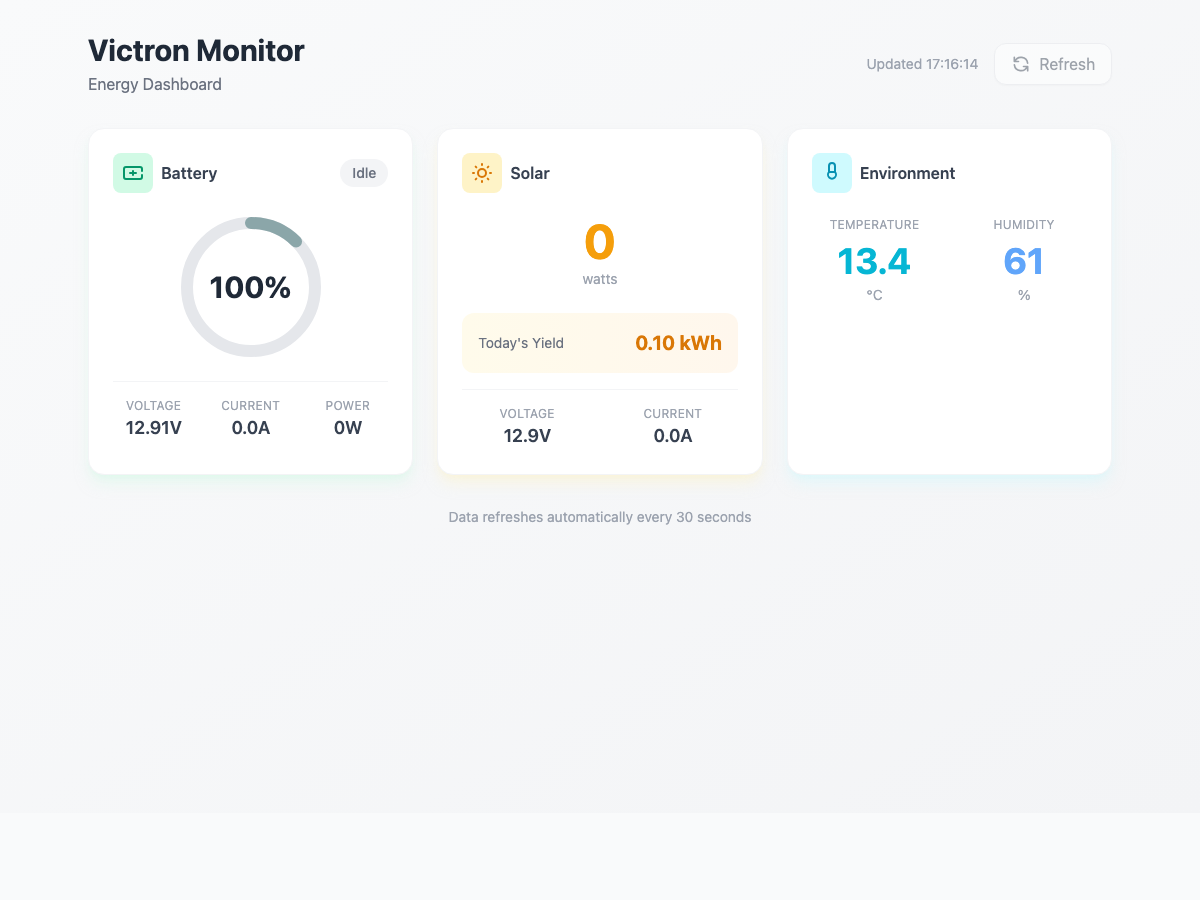
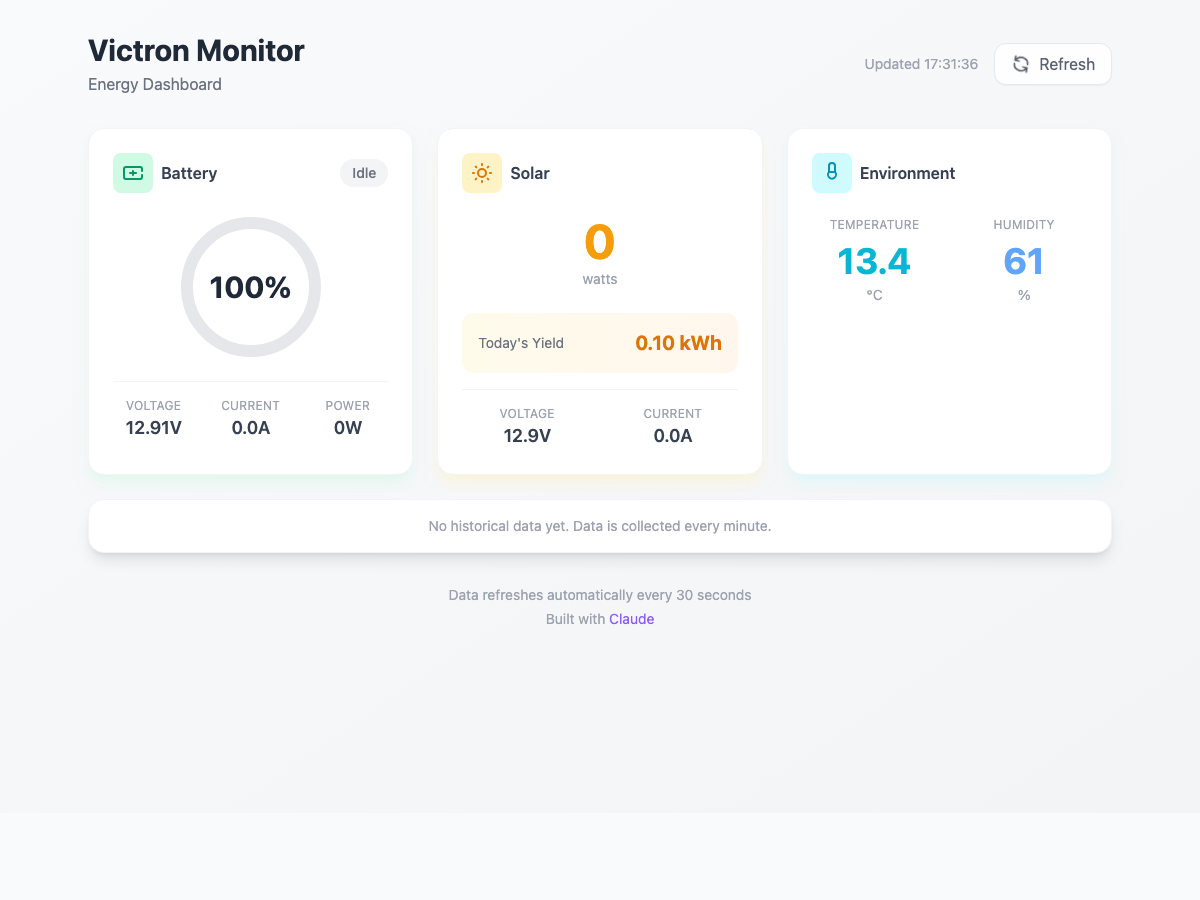
Add time travel feature to scroll through historical data
- Time slider to scrub through 24 hours of history
- Dashboard updates in real-time as you scroll
- Live mode button to return to current data
- Updated screenshot and README

diff --git a/frontend/src/App.jsx b/frontend/src/App.jsx
@@ -1,4 +1,4 @@
-import { useState, useEffect } from 'react'
+import { useState, useEffect, useMemo } from 'react'
 
 const API_BASE = import.meta.env.PROD ? '' : 'http://localhost:8000'
 
@@ -61,7 +61,7 @@ function CircularGauge({ value, max = 100, size = 140, strokeWidth = 12, color, 
           strokeDasharray={circumference}
           strokeDashoffset={offset}
           strokeLinecap="round"
-          className="transition-all duration-500 ease-out"
+          className="transition-all duration-300 ease-out"
         />
       </svg>
       <div className="absolute inset-0 flex items-center justify-center">
@@ -98,11 +98,24 @@ const RefreshIcon = ({ spinning }) => (
   </svg>
 )
 
-function BatteryCard({ battery }) {
-  const voltage = battery?.voltage ?? null
-  const current = battery?.current ?? 0
-  const power = battery?.power ?? 0
-  const state = battery?.state ?? 'unknown'
+const PlayIcon = () => (
+  <svg className="w-5 h-5" fill="currentColor" viewBox="0 0 24 24">
+    <path d="M8 5v14l11-7z" />
+  </svg>
+)
+
+const TimeTravelIcon = () => (
+  <svg className="w-6 h-6" fill="none" viewBox="0 0 24 24" stroke="currentColor" strokeWidth={2}>
+    <path strokeLinecap="round" strokeLinejoin="round" d="M12 8v4l3 3m6-3a9 9 0 11-18 0 9 9 0 0118 0z" />
+    <path strokeLinecap="round" strokeLinejoin="round" d="M3 12h2M4 9l1.5 1.5M4 15l1.5-1.5" />
+  </svg>
+)
+
+function BatteryCard({ data }) {
+  const voltage = data?.battery_voltage ?? null
+  const current = data?.battery_current ?? 0
+  const power = data?.battery_power ?? 0
+  const state = data?.battery_state ?? 'unknown'
   const soc = voltageToSOC(voltage)
 
   const getSOCColor = (soc) => {
@@ -164,11 +177,11 @@ function BatteryCard({ battery }) {
   )
 }
 
-function SolarCard({ solar }) {
-  const power = solar?.power ?? 0
-  const voltage = solar?.voltage ?? 0
-  const current = solar?.current ?? 0
-  const yieldToday = solar?.yield_today ?? 0
+function SolarCard({ data }) {
+  const power = data?.solar_power ?? 0
+  const voltage = data?.solar_voltage ?? 0
+  const current = data?.solar_current ?? 0
+  const yieldToday = data?.solar_yield_today ?? 0
 
   return (
     <div className="bg-white rounded-2xl shadow-lg shadow-amber-100/50 p-6 border border-gray-100">
@@ -207,9 +220,9 @@ function SolarCard({ solar }) {
   )
 }
 
-function EnvironmentCard({ environment }) {
-  const temp = environment?.temperature ?? null
-  const humidity = environment?.humidity ?? null
+function EnvironmentCard({ data }) {
+  const temp = data?.temperature ?? null
+  const humidity = data?.humidity ?? null
 
   return (
     <div className="bg-white rounded-2xl shadow-lg shadow-cyan-100/50 p-6 border border-gray-100">
@@ -238,22 +251,127 @@ function EnvironmentCard({ environment }) {
   )
 }
 
+function TimeSlider({ history, selectedIndex, onIndexChange, isLive, onLiveToggle }) {
+  const readings = history?.readings ?? []
+
+  if (readings.length === 0) {
+    return (
+      <div className="bg-white rounded-2xl shadow-lg p-4 border border-gray-100">
+        <p className="text-gray-400 text-center text-sm">No historical data yet. Data is collected every minute.</p>
+      </div>
+    )
+  }
+
+  const selectedReading = readings[selectedIndex]
+  const selectedTime = selectedReading ? new Date(selectedReading.timestamp) : null
+
+  const formatTime = (date) => {
+    return date.toLocaleTimeString('en-GB', { hour: '2-digit', minute: '2-digit' })
+  }
+
+  const formatDateTime = (date) => {
+    const today = new Date()
+    const isToday = date.toDateString() === today.toDateString()
+    if (isToday) {
+      return `Today ${formatTime(date)}`
+    }
+    return date.toLocaleDateString('en-GB', { weekday: 'short', day: 'numeric', month: 'short' }) + ' ' + formatTime(date)
+  }
+
+  const oldestTime = readings.length > 0 ? new Date(readings[0].timestamp) : null
+  const newestTime = readings.length > 0 ? new Date(readings[readings.length - 1].timestamp) : null
+
+  return (
+    <div className="bg-white rounded-2xl shadow-lg p-4 border border-gray-100">
+      <div className="flex items-center justify-between gap-4">
+        {/* Left: Icon and title */}
+        <div className="flex items-center gap-3">
+          <div className="p-2 bg-violet-100 rounded-lg text-violet-600">
+            <TimeTravelIcon />
+          </div>
+          <div>
+            <div className={`text-xl font-bold ${isLive ? 'text-emerald-500' : 'text-violet-500'}`}>
+              {isLive ? 'Live' : selectedTime ? formatTime(selectedTime) : '--:--'}
+            </div>
+            <div className="text-xs text-gray-400">
+              {isLive ? 'Real-time' : selectedTime ? formatDateTime(selectedTime) : ''}
+            </div>
+          </div>
+        </div>
+
+        {/* Center: Slider */}
+        <div className="flex-1 px-4">
+          <input
+            type="range"
+            min={0}
+            max={readings.length - 1}
+            value={selectedIndex}
+            onChange={(e) => onIndexChange(parseInt(e.target.value))}
+            onMouseDown={() => { if (isLive) onLiveToggle() }}
+            onTouchStart={() => { if (isLive) onLiveToggle() }}
+            className="w-full h-2 rounded-lg appearance-none cursor-pointer"
+            style={{
+              background: isLive
+                ? '#d1fae5'
+                : `linear-gradient(to right, #8b5cf6 0%, #8b5cf6 ${(selectedIndex / (readings.length - 1)) * 100}%, #ddd6fe ${(selectedIndex / (readings.length - 1)) * 100}%, #ddd6fe 100%)`
+            }}
+          />
+          <div className="flex justify-between mt-1 text-xs text-gray-400">
+            <span>{oldestTime ? formatTime(oldestTime) : ''}</span>
+            <span className="text-gray-300">{readings.length} readings</span>
+            <span>{newestTime ? formatTime(newestTime) : ''}</span>
+          </div>
+        </div>
+
+        {/* Right: Live button */}
+        <button
+          onClick={onLiveToggle}
+          className={`flex items-center gap-2 px-4 py-2 rounded-xl font-medium transition-all ${
+            isLive
+              ? 'bg-emerald-500 text-white shadow-lg shadow-emerald-200'
+              : 'bg-gray-100 text-gray-600 hover:bg-gray-200'
+          }`}
+        >
+          <PlayIcon />
+          <span>Live</span>
+        </button>
+      </div>
+    </div>
+  )
+}
+
 function App() {
   const [current, setCurrent] = useState(null)
+  const [history, setHistory] = useState(null)
   const [lastUpdate, setLastUpdate] = useState(null)
   const [error, setError] = useState(null)
   const [refreshing, setRefreshing] = useState(false)
+  const [isLive, setIsLive] = useState(true)
+  const [selectedIndex, setSelectedIndex] = useState(0)
 
   const fetchData = async () => {
     setRefreshing(true)
     try {
-      const response = await fetch(`${API_BASE}/api/current`)
-      if (response.ok) {
-        const data = await response.json()
+      const [currentRes, historyRes] = await Promise.all([
+        fetch(`${API_BASE}/api/current`),
+        fetch(`${API_BASE}/api/history?hours=24`)
+      ])
+
+      if (currentRes.ok) {
+        const data = await currentRes.json()
         if (!data.error) {
           setCurrent(data)
           setLastUpdate(new Date())
           setError(null)
+        }
+      }
+
+      if (historyRes.ok) {
+        const data = await historyRes.json()
+        setHistory(data)
+        // If live mode, keep slider at the end
+        if (isLive && data.readings?.length > 0) {
+          setSelectedIndex(data.readings.length - 1)
         }
       }
     } catch (e) {
@@ -269,6 +387,44 @@ function App() {
     return () => clearInterval(interval)
   }, [])
 
+  // When new data arrives and we're in live mode, update selected index
+  useEffect(() => {
+    if (isLive && history?.readings?.length > 0) {
+      setSelectedIndex(history.readings.length - 1)
+    }
+  }, [history, isLive])
+
+  // Get the display data based on mode
+  const displayData = useMemo(() => {
+    if (isLive || !history?.readings?.length) {
+      // Live mode - use current data
+      return current ? {
+        battery_voltage: current.battery?.voltage,
+        battery_current: current.battery?.current,
+        battery_power: current.battery?.power,
+        battery_state: current.battery?.state,
+        solar_power: current.solar?.power,
+        solar_voltage: current.solar?.voltage,
+        solar_current: current.solar?.current,
+        solar_yield_today: current.solar?.yield_today,
+        temperature: current.environment?.temperature,
+        humidity: current.environment?.humidity,
+      } : null
+    } else {
+      // Historical mode - use selected reading
+      return history.readings[selectedIndex]
+    }
+  }, [isLive, current, history, selectedIndex])
+
+  const handleLiveToggle = () => {
+    const newIsLive = !isLive
+    setIsLive(newIsLive)
+    if (newIsLive && history?.readings?.length > 0) {
+      // Switching to live - jump to end
+      setSelectedIndex(history.readings.length - 1)
+    }
+  }
+
   return (
     <main className="min-h-screen bg-gradient-to-br from-gray-50 to-gray-100 p-4 md:p-8">
       <div className="max-w-5xl mx-auto">
@@ -279,7 +435,12 @@ function App() {
             <p className="text-gray-500 mt-1">Energy Dashboard</p>
           </div>
           <div className="flex items-center gap-4">
-            {lastUpdate && (
+            {!isLive && (
+              <span className="px-3 py-1 bg-violet-100 text-violet-600 rounded-full text-sm font-medium">
+                Viewing History
+              </span>
+            )}
+            {lastUpdate && isLive && (
               <span className="text-sm text-gray-400">
                 Updated {lastUpdate.toLocaleTimeString()}
               </span>
@@ -302,11 +463,20 @@ function App() {
         )}
 
         {/* Cards Grid */}
-        <div className="grid grid-cols-1 md:grid-cols-2 lg:grid-cols-3 gap-6">
-          <BatteryCard battery={current?.battery} />
-          <SolarCard solar={current?.solar} />
-          <EnvironmentCard environment={current?.environment} />
+        <div className="grid grid-cols-1 md:grid-cols-2 lg:grid-cols-3 gap-6 mb-6">
+          <BatteryCard data={displayData} />
+          <SolarCard data={displayData} />
+          <EnvironmentCard data={displayData} />
         </div>
+
+        {/* Time Slider */}
+        <TimeSlider
+          history={history}
+          selectedIndex={selectedIndex}
+          onIndexChange={setSelectedIndex}
+          isLive={isLive}
+          onLiveToggle={handleLiveToggle}
+        />
 
         {/* Footer */}
         <div className="mt-8 text-center text-gray-400 text-sm space-y-1">

diff --git a/backend/main.py b/backend/main.py
@@ -147,9 +147,15 @@ async def get_history(hours: int = 24, db: Session = Depends(get_db)):
             {
                 "timestamp": r.timestamp.isoformat(),
                 "battery_voltage": r.battery_voltage,
+                "battery_current": r.battery_current,
                 "battery_power": r.battery_power,
+                "battery_state": r.battery_state,
                 "solar_power": r.solar_power,
+                "solar_voltage": r.solar_voltage,
+                "solar_current": r.solar_current,
+                "solar_yield_today": r.solar_yield_today,
                 "temperature": r.temperature,
+                "humidity": r.humidity,
             }
             for r in readings
         ]

diff --git a/README.md b/README.md
@@ -9,6 +9,7 @@ A simple, self-hosted energy monitoring dashboard for Victron systems using the 
 - **Battery monitoring** - Voltage, current, power, and estimated SOC (state of charge) from voltage
 - **Solar tracking** - Real-time power output and daily yield
 - **Environment sensors** - Temperature and humidity from connected sensors (e.g., Ruuvi)
+- **Time travel** - Scroll through 24 hours of historical data and watch the dashboard update
 - **Auto-refresh** - Dashboard updates every 30 seconds
 - **Data logging** - Historical data stored locally in SQLite
 - **Modern UI** - Clean, responsive design with circular gauges and color-coded status
